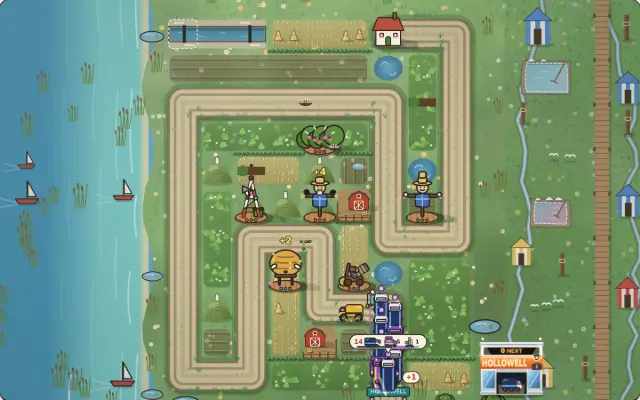
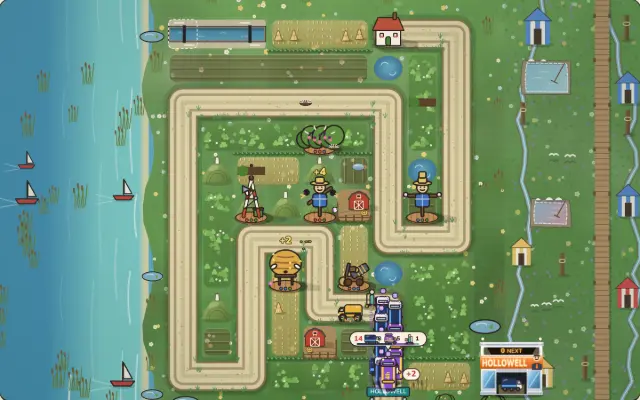
Hedgerow 2D item 370 done: Saltmarsh's shell-sand lane, deeper grass and a thinner wash (field saturation 1.31x, lane-to-bed 1.32:1+ at 6 points); contrast script; key art re-shot
Claude-Session: https://claude.ai/code/session_01SimvMQ67s7DhyTBvHWazbK

diff --git a/games/hedgerow/src/theme.ts b/games/hedgerow/src/theme.ts
@@ -86,9 +86,9 @@ export const THEMES: Theme[] = [
   {
     name: "Saltmarsh",
     // Plan item 370: coastal daylight, not a grey wash: a cool, clean green (sat ~0.4, Rivermead's is 0.45).
-    grass: ["#9cc67c", "#82b06a"],
+    grass: ["#76ac58", "#5e9448"],
     blade: "#4f8a5a",
-    dirt: ["#8a7454", "#d3c39c", "#ad9b74"],
+    dirt: ["#8a7454", "#e2d3a8", "#b9a77e"],
     flowers: ["#f4f1e8", "#b9d7e2", "#e9d27a"],
     decor: [
       ["reeds", 6],
@@ -97,7 +97,7 @@ export const THEMES: Theme[] = [
       ["bush", 2],
     ],
     light: "#d9f0f4",
-    lightAlpha: 0.14,
+    lightAlpha: 0.07,
     vignette: "rgba(24,64,56,0.26)",
     water: { color: "#5fa9c2", foam: "#e3f2f2", side: "left", shelf: { sand: "#e8d9a6", shallow: "#7fd0c8", deep: "#3f8fb4" } },
   },

diff --git a/docs/plan/two-week-plan.md b/docs/plan/two-week-plan.md
@@ -3497,7 +3497,7 @@ The items come from fresh-eyes audits on 2026-11-01 and 2026-11-02 (items 25-32:
 - **Accept:** one e2e case per fix at P and D where measurable; shots before and after.
 - **Size:** 2
 
-## 370. [ ] Hedgerow 2D: Saltmarsh's field in daylight, matching the 3D view *(lane A, in progress)* *(notes, 2026-11-14 04:35 lane A: level 21 has no twist (levels.ts's twist table skips 20-21), and Saltmarsh's theme grass (#9fbf88/#86a978, theme.ts) is lighter than Rivermead's, so the grey comes after the theme: suspects are item 202's Saltmarsh margin set (margins.ts `saltmarsh`), the plot looks for act 3 (plotlook.ts) and the light/vignette pass at the end of `paintBackground` (theme.ts: a #d9f0f4 wash at 0.14 and a teal vignette at 0.33). Start by painting l21 with each of those off and measuring the field's mean saturation at D)* *(slice 1, 04:38 lane A: the light wash and vignette off moved l21's field saturation only 0.299 -> 0.318, so the grey was the act's own paint: Saltmarsh grass #9fbf88/#86a978 -> #9cc67c/#82b06a, blade #4f8a5a, the sea #7fb3c4 -> #5fa9c2. Field (D, 20-1080 x 80-880) saturation 0.299 -> 0.346 (1.16x of the 1.3x asked), luminance 0.558 -> 0.553 (`scripts/hedgerow-370-measure.mjs`; l34 0.414). Hedgerow units (681) and keyart-fresh pass. Shots scratchpad s0/s1-l21. Left: the marsh margin right of the hedge is still grey-green (item 202's Saltmarsh set in margins.ts), the sea's shelf and wakes, the 2D cast shadows, the lane/bed value steps)*
+## 370. [x] Hedgerow 2D: Saltmarsh's field in daylight, matching the 3D view *(done 2026-11-14 05:20 lane A: slices 2-4 below)* *(notes, 2026-11-14 04:35 lane A: level 21 has no twist (levels.ts's twist table skips 20-21), and Saltmarsh's theme grass (#9fbf88/#86a978, theme.ts) is lighter than Rivermead's, so the grey comes after the theme: suspects are item 202's Saltmarsh margin set (margins.ts `saltmarsh`), the plot looks for act 3 (plotlook.ts) and the light/vignette pass at the end of `paintBackground` (theme.ts: a #d9f0f4 wash at 0.14 and a teal vignette at 0.33). Start by painting l21 with each of those off and measuring the field's mean saturation at D)* *(slice 1, 04:38 lane A: the light wash and vignette off moved l21's field saturation only 0.299 -> 0.318, so the grey was the act's own paint: Saltmarsh grass #9fbf88/#86a978 -> #9cc67c/#82b06a, blade #4f8a5a, the sea #7fb3c4 -> #5fa9c2. Field (D, 20-1080 x 80-880) saturation 0.299 -> 0.346 (1.16x of the 1.3x asked), luminance 0.558 -> 0.553 (`scripts/hedgerow-370-measure.mjs`; l34 0.414). Hedgerow units (681) and keyart-fresh pass. Shots scratchpad s0/s1-l21. Left: the marsh margin right of the hedge is still grey-green (item 202's Saltmarsh set in margins.ts), the sea's shelf and wakes, the 2D cast shadows, the lane/bed value steps)* *(slices 2-4, 05:20 lane A: the sea is sand at the tideline, a shallow teal shelf and deep water out at the table edge with crests parallel to the shore (`theme.water.shelf`, Saltmarsh only, its own seed), boats trail a wake, no tufts or flowers on the water; the marsh margin a living green with sea lavender; barns, the farmhouse and towers cast a short shadow away from the act's 3D sun (`sunlight.ts` mirrors palette `sunAz`, `castShadow` in sprites.ts, `tests/hedgerow-shadow2d.test.ts`); Saltmarsh's lane a pale shell-sand track, grass deeper, the light wash 0.14 -> 0.07. Measured at D: l21 field saturation 0.299 -> 0.393 (1.31x); lane-to-bed contrast at 6 points min 1.35 (l21) and 1.32 (l25), was 1.15 (`scripts/hedgerow-370-contrast.mjs`); l34 2D shots change 0.22% (P) and 0.29% (D). Not met: luminance within 10% of 3D (2D 0.549 vs 3D 0.463, 19% over): the lane is the brightest surface, and darkening it fails the contrast clause (logged in DECISIONS). Sea fret left as it is (a twist on its own levels, hedgerow-twists passes). Shots scratchpad h370 before/final l21/l25/l34 P and D; key art re-shot)*
 - **Why:** `plan1114a/hedge-l21-2d-D` (20-1080 x 75-890): the whole board sits under a flat grey-green veil: olive crops, a putty lane, and a sea (20-280 x 75-890) of one slate tone with sailboat stickers on it. The same level in 3D (`hedge-l21-3d-D`) is bright and lit, so the two views disagree, and the 2D board looks dimmed rather than "the table is the hero". `hedge-l21-2d-P` (0-390 x 50-680) is the same. Rivermead (`hedge-l34-2d-D`) is lit, so it's the act's palette, not the 2D renderer. The veil also flattens the value steps between plot, lane and verge (360-800 x 230-420).
 - **Build:**
   - Find what greys out act 3 in 2D (a weather tint, the biome palette or an overlay) and give Saltmarsh a daylight palette: the coast in colour (cool sky light, sand and sea-lavender verges), not a grey wash.
